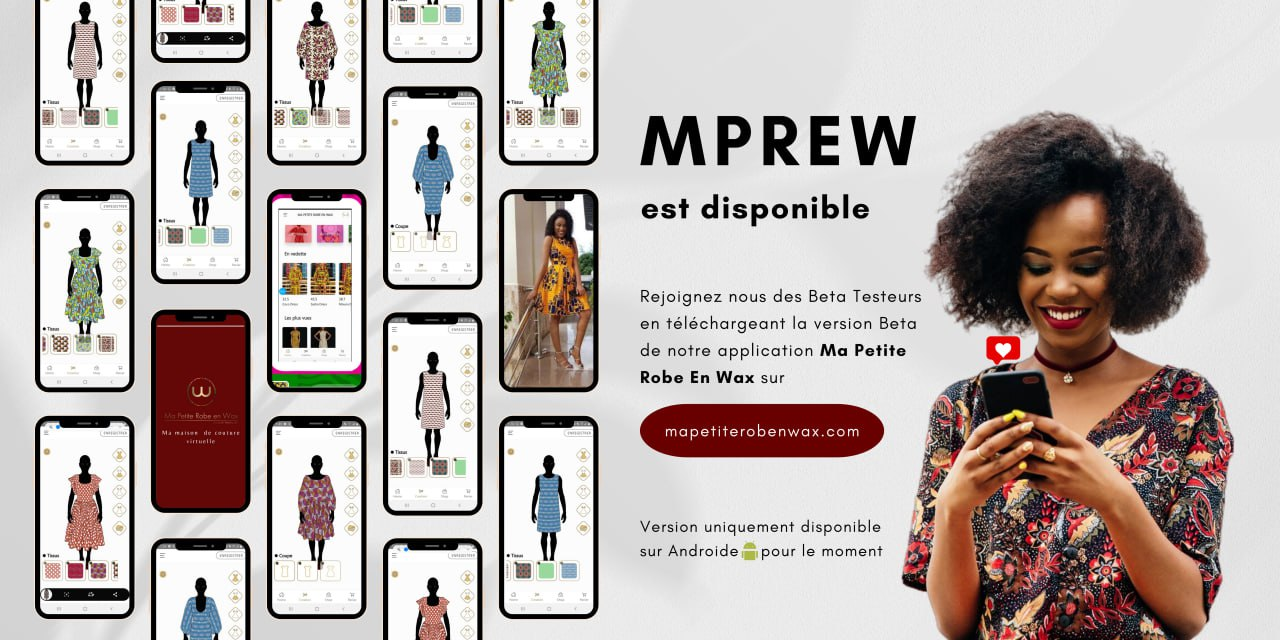
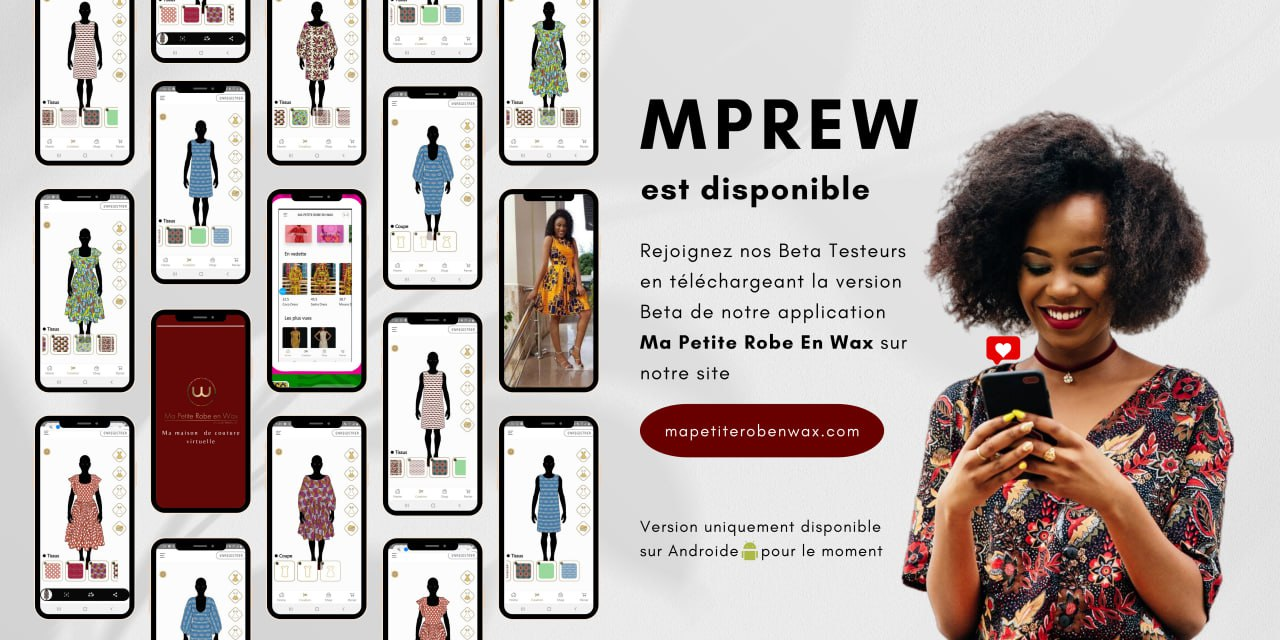
Correction des fautes

Changed region(s): [[0.5, 0.375, 0.7188, 0.625], [0.5, 0.1562, 0.7188, 0.3438]]

diff --git a/public/css/miadreams.css b/public/css/miadreams.css
@@ -218,6 +218,15 @@
 
 }
 
+@media (max-width: 1398px) {
+    .texte-uni {
+        top: 40px;
+        font-size: 19px;
+
+    }
+
+}
+
 @media (max-width: 1024px ) {
 
 

diff --git a/resources/views/a-propos.blade.php b/resources/views/a-propos.blade.php
@@ -51,12 +51,13 @@
                         mêlant ses doubles origines, française et ivoirienne.
                         Née d’un père couturier, styliste, modéliste diplômé de l’académie internationale de coupe
                         LADEVEZE
-                        ROUSSEL & J.DARROUX en 1966, porter de beau vêtement était avant tout une marque de respect.</p>
-                    <p>Entreprendre dans le secteur de la mode c’est fait comme une évidence, un héritage familial et
+                        ROUSSEL & J.DARROUX en 1966, porter de beaux vêtements était avant tout une marque de
+                        respect.</p>
+                    <p>Entreprendre dans le secteur de la mode, c’est fait comme une évidence, un héritage familial et
                         culturel,
                         qui s’est transformé en passion. Son parcours atypique dans la vente, la police, et 10 années
                         dans
-                        l’hôtellerie et la restauration haut de gamme ont développés sa persévérance, son goût du luxe,
+                        l’hôtellerie et la restauration haut de gamme ont développé sa persévérance, son goût du luxe,
                         de
                         l’étiquette, du savoir-vivre et de la gastronomie.</p>
                     <p>
@@ -65,7 +66,7 @@
                         Sénégal, elle a créé sa startup en 2020, spécialisée dans la confection de produits artisanaux
                         et le
                         digital.
-                        La marque Mia Dreams créé en 2011, propose une ligne de vêtements féminins spécialement dédiée
+                        La marque Mia Dreams créée en 2011, propose une ligne de vêtements féminins spécialement dédiée
                         aux
                         femmes cadres, dirigeantes et intellectuelles. Son esprit innovant s'est concrétisé à travers le
                         projet
@@ -114,7 +115,7 @@
                     <p>Je me suis lancée dans le projet “ma petite robe en wax” par amour pour la découverte de la
                         couture et
                         l’aspect innovant du projet. Ce projet et la personne qui le portait m’ont plu et depuis lors,
-                        me voila
+                        me voilà
                         dans l’aventure.</p>
                     <p>Au sein de notre Fashion Program, j'ai assumé le rôle de gestionnaire de projets. Mes
                         responsabilités
@@ -122,8 +123,8 @@
                         planification des
                         intervenants et des apprenants, ainsi que la supervision de leur emploi du temps.</p>
                     <p>L’entreprenariat est un véritable engagement pour moi et une source d’épanouissement. Je
-                        m’enrichie
-                        chaque jour face au nouveau défis et aux challenges.</p>
+                        m’enrichis
+                        chaque jour face aux nouveaux défis et aux challenges.</p>
                 </div>
 
             </div>

diff --git a/resources/views/nosMarques/fashionProgram.blade.php b/resources/views/nosMarques/fashionProgram.blade.php
@@ -30,7 +30,7 @@
                     se perfectionner, acquérir de nouvelles compétences, et pénétrer le marché national et
                     international. La première cohorte sera au nombre de 12 apprenants, dont 50% de femmes, qui
                     bénéficieront d’une formation pratique de 16 semaines au sein de l’Entreprise Mia Dreams and Co. Le
-                    projet a délibérément choisi un petit nombre d’apprenant afin de nous assurer de la qualité, de la
+                    projet a délibérément choisi un petit nombre d’apprenants afin de nous assurer de la qualité, de la
                     bonne compréhension et exécution de l’ensemble des modules dispensés lors du programme.
                 </p>
                 <p>
@@ -45,7 +45,7 @@
                     <li>288 Heures de Formation en littératie et Marketing digital</li>
                     <li>24 Heures de Formation en conseil en image et relation client</li>
                     <li>10 Heures de Formation en communication, prise de parole en public et leadership</li>
-                    <li>70 Heures de teintures textile</li>
+                    <li>70 Heures de teintures textiles</li>
                     <li>20 Heures de broderies perlées</li>
                 </ul>
             </div>

diff --git a/resources/views/impact.blade.php b/resources/views/impact.blade.php
@@ -69,10 +69,10 @@
 </div>
 <div class="impact-2 container mt-5">
     <h1>NOTRE ATELIER DE CONFECTION</h1>
-    <p> Toutes nos créations sont produits en série-limitée dans notre atelier de confection basé au
-        Sénégal, afin de maitriser notre production et créer de l’emploi.
-        Notre atelier à taille humaine est parfaitement équipée avec des machines de qualité pour ofrir de
-        belles finition.</p>
+    <p> Toutes nos créations sont produites en série limitée dans notre atelier de confection basé au
+        Sénégal, afin de maîtriser notre production et de créer de l’emploi.
+        Notre atelier à taille humaine est parfaitement équipé avec des machines de qualité pour offrir de
+        belles finitions.</p>
     <div class="container-fluid d-flex justify-content-center align-items-center">
         <img src="{{asset("img/impact/impact.jpg")}}" class="img-fluid w-100"
              alt="Soutenez nos différentes initiatives pour donner accès à la FORMATION">

diff --git a/resources/views/nosMarques/mprew.blade.php b/resources/views/nosMarques/mprew.blade.php
@@ -11,11 +11,11 @@
 </div>
 <div class="container mprew-container-3 ">
     <p>
-        Ma petite robe en wax est la première application mobile de cocréation entre la cliente et son artisan, qui
+        Ma petite robe en wax est la première application mobile de co-création entre la cliente et son artisan, qui
         permet de créer et de personnaliser sa robe en quelques clics.
         <br><br>
-        A partir d’un avatar 3D et une multitude d’option quant aux chois du tissu, des manches, de l’encolure, vous
-        pouvez créer votre robe. Vous serez livré sous 3 semaines
+        A partir d’un avatar 3D et une multitude d’options quant aux choix du tissu, des manches, de l’encolure, vous
+        pouvez créer votre robe. Vous serez livré sous 3 semaines.
     </p>
     <video width="150" height="200" controls>
         <source src="{{ asset('video/presentation-mprew.mp4') }}" type="video/mp4">

diff --git a/resources/views/nosMarques/personalBranding.blade.php b/resources/views/nosMarques/personalBranding.blade.php
@@ -86,7 +86,7 @@
             <div class="col-md-7">
                 <p class="fs-5 pt-5 ps-3 para-indif">
                     MIA DREAMS PERSONAL BRANDING & ETIQUETTE est notre catalogue qui a
-                    pour objectif de présenter les nouvelles collections de la marque de une
+                    pour objectif de présenter les nouvelles collections de la marque d'une
                     façon originale de vous présenter nos créations autour d'un art de vivre
                     d'une Afrique contemporaine, et de partager notre univers créatif
                     accompagné de petits articles, de citations, de conseils et astuces bien-être.

diff --git a/resources/views/nosMarques/miaDreams.blade.php b/resources/views/nosMarques/miaDreams.blade.php
@@ -22,7 +22,7 @@
         <p>Toutes nos créations sont éditées en petites séries pour satisfaire <br> les adeptes d’exclusivité. Nous
             proposons des pièces modernes, <br> sophistiquées, élégantes et confortables.</p>
         <p>Mia signifie Made In AFrica, une volonté pour nous de promouvoir notre <br> culture et les savoir-faire des
-            artisans. A cet effet nous produisons <br> toutes nos créations dans notre atelier au Sénégal depuis 2013.
+            artisans. A cet effet, nous produisons <br> toutes nos créations dans notre atelier au Sénégal depuis 2013.
         </p>
     </div>
 </div>

diff --git a/resources/views/layouts/header.blade.php b/resources/views/layouts/header.blade.php
@@ -71,7 +71,7 @@
                         <ul class="dropdown-menu" aria-labelledby="navbarDropdown">
                             <li class=""><a class="dropdown-item" href="{{ route('apropos') }}">A PROPOS</a>
                             </li>
-                            <li><a class="dropdown-item" href="">BLOG</a></li>
+                            <li><a class="dropdown-item" href="https://otentikmia.wixsite.com/blog/accueil">BLOG</a></li>
                         </ul>
 
                     </li>
